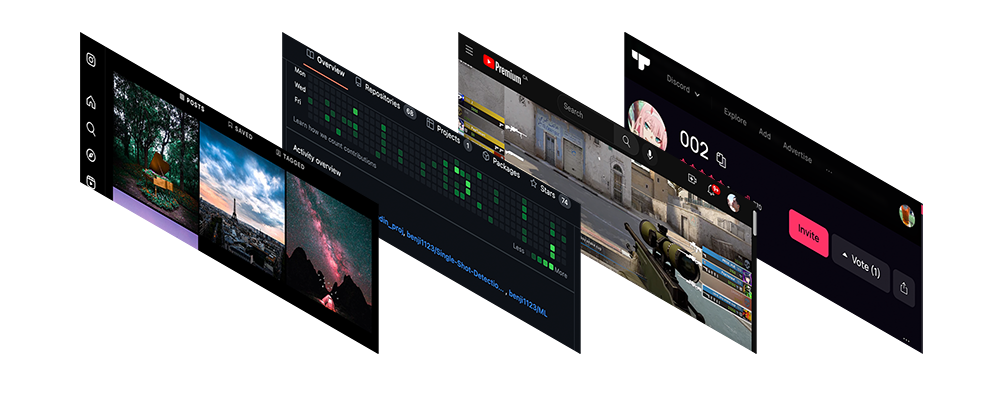
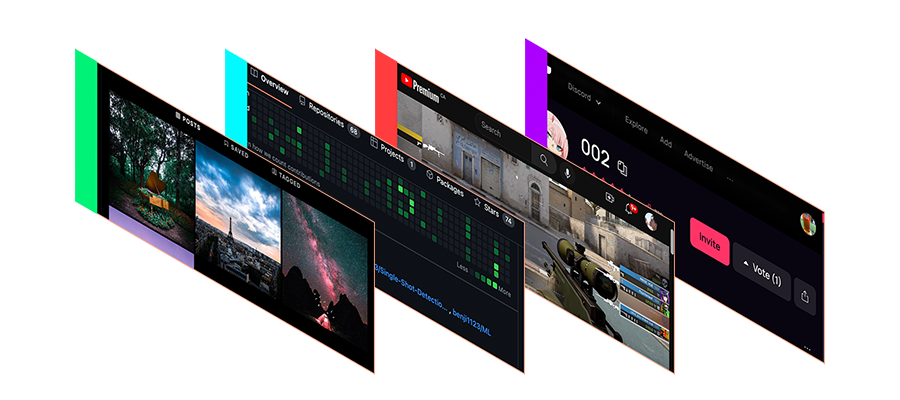
fancy iso cards - border + color-tab

diff --git a/index.html b/index.html
@@ -39,7 +39,7 @@
     </div>
     <div class="center">
       <img id="iso-cards" src="media/cards/iso-cards.png">
-      <h1 id="english-name" class="name neon-text flicker-on-hover fade-in"> ben 李沐祥 </h1> <!-- 李沐祥 -->
+      <h1 id="english-name" class="name neon-text fade-in"> ben 李沐祥 </h1> <!-- 李沐祥 -->
       <!-- art credit text -->
       <div id="chinese-name" class="name fade-in">
         <!-- 李沐祥 -->

diff --git a/styles/_constants.sass b/styles/_constants.sass
@@ -5,4 +5,5 @@ $red: #f75049
 $cyan: #5ef6ff
 $mint-jungle: #1ded83
 $salmon: #f2a083
+$violet-purple: #9D2BF5
 $text-color: $salmon

diff --git a/style.css b/style.css
@@ -302,10 +302,6 @@ body {
   }
 }
 
-#iso-cards {
-  opacity: 50%;
-}
-
 body {
   background: black;
 }

diff --git a/styles/_iso-cards.sass b/styles/_iso-cards.sass
@@ -1,2 +1,3 @@
+
 #iso-cards
-    opacity: 50%
+
